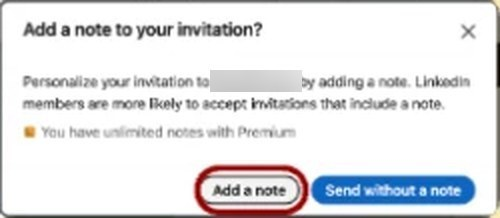
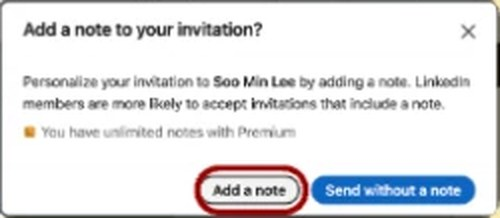
Unblur LinkedIn screenshots; add an example to each note-part flashcard
Claude-Session: https://claude.ai/code/session_016kRYkDGFU74fbRjhpqq5SD

Changed region(s): [[0.42, 0.3028, 0.63, 0.4404]]

diff --git a/index.html b/index.html
@@ -1620,6 +1620,10 @@ body:has(.wk-nav) .help-fab,body:has(.duo-foot) .help-fab{bottom:calc(96px + env
 .fc-deck~.deck-ctl,.deck-solo+.deck-ctl{margin-top:14px}
 .fc-hint{position:absolute;bottom:20px;left:50%!important;right:auto!important;transform:translateX(-50%);white-space:nowrap;font-size:12.5px!important;font-weight:600;color:#6B7163!important;background:#F0F1EC;padding:6px 14px;border-radius:999px}
 .fc-hint{display:none!important}
+.fc-ex{display:block;quotes:none;max-width:40ch;margin-top:4px;padding:14px 18px;border-radius:16px;background:#22261C;color:#fff;font-size:clamp(16px,1.9vw,19px);line-height:1.45;font-weight:500;text-align:left}
+.fc-ex::before,.fc-ex::after{content:none}
+.fc-back:has(.fc-ex) .wk-try,.fc-back:has(.fc-ex) .fc-more{display:none!important}
+.fc-ex i{display:block;font-style:normal;font-size:11px;font-weight:700;letter-spacing:.12em;text-transform:uppercase;color:#C6F432;margin-bottom:4px}
 </style>
 </head>
 <body>
@@ -2833,9 +2837,9 @@ const WKO=[
   {sec:"formula",r:()=>`<span class="wk-eye">The formula</span>
     <h2 class="wk-h">Every note has <mark>three parts</mark>.</h2>
     <div class="wk-hk">
-      <div class="wk-hk-card"><span class="seg-k sg-who">Who</span><b>Who you are</b><p>Your school and major.</p><div class="wk-try"><b>Always</b>The same in every note.</div></div>
-      <div class="wk-hk-card"><span class="seg-k sg-why">Why</span><b>Why you chose them</b><p>Something about them specifically.</p><div class="wk-try"><b>Changes</b>Different for every person.</div></div>
-      <div class="wk-hk-card"><span class="seg-k sg-what">What</span><b>What you want</b><p>One small, clear ask.</p><div class="wk-try"><b>Changes</b>Different for every person.</div></div>
+      <div class="wk-hk-card"><span class="seg-k sg-who">Who</span><b>Who you are</b><p>Your school and major.</p><div class="wk-try"><b>Always</b>The same in every note.</div><q class="fc-ex"><i>Example</i>“I’m a junior at NYU studying marketing.”</q></div>
+      <div class="wk-hk-card"><span class="seg-k sg-why">Why</span><b>Why you chose them</b><p>Something about them specifically.</p><div class="wk-try"><b>Changes</b>Different for every person.</div><q class="fc-ex"><i>Example</i>“I saw you moved from Warner Bros. to growth marketing at Spotify.”</q></div>
+      <div class="wk-hk-card"><span class="seg-k sg-what">What</span><b>What you want</b><p>One small, clear ask.</p><div class="wk-try"><b>Changes</b>Different for every person.</div><q class="fc-ex"><i>Example</i>“Would you be open to a 15-minute chat about how you made the switch?”</q></div>
     </div>`},
   {sec:"examples",r:(p,w)=>{const i=Math.max(0,WKO_EX.findIndex(x=>x.k===w.ex)),x=WKO_EX[i];return `<span class="wk-eye">Real examples</span>
     <h2 class="wk-h">Tailor it to the <mark>situation</mark>.</h2>

diff --git a/sw.js b/sw.js
@@ -1,5 +1,5 @@
 // Landit offline support. Bump VERSION to force every phone to refresh cached images.
-const VERSION = "landit-v8";
+const VERSION = "landit-v9";
 const SHELL = ["./", "./index.html", "./manifest.webmanifest", "./icons/icon-192.png", "./icons/icon-512.png"];
 
 self.addEventListener("install", e => {
